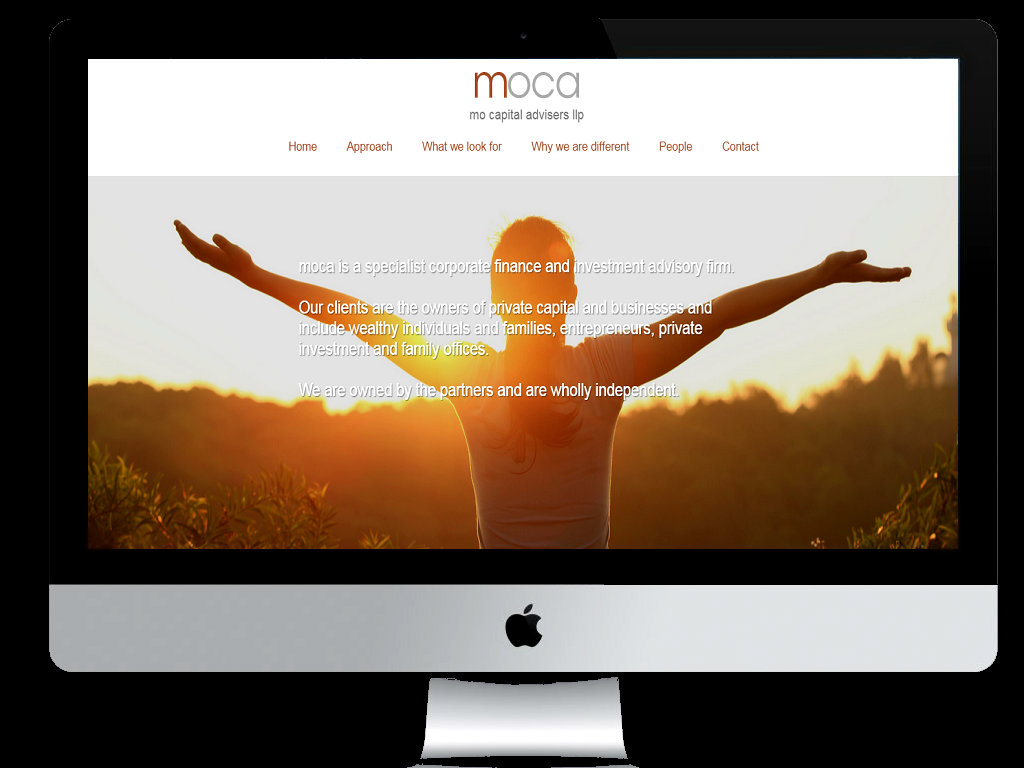
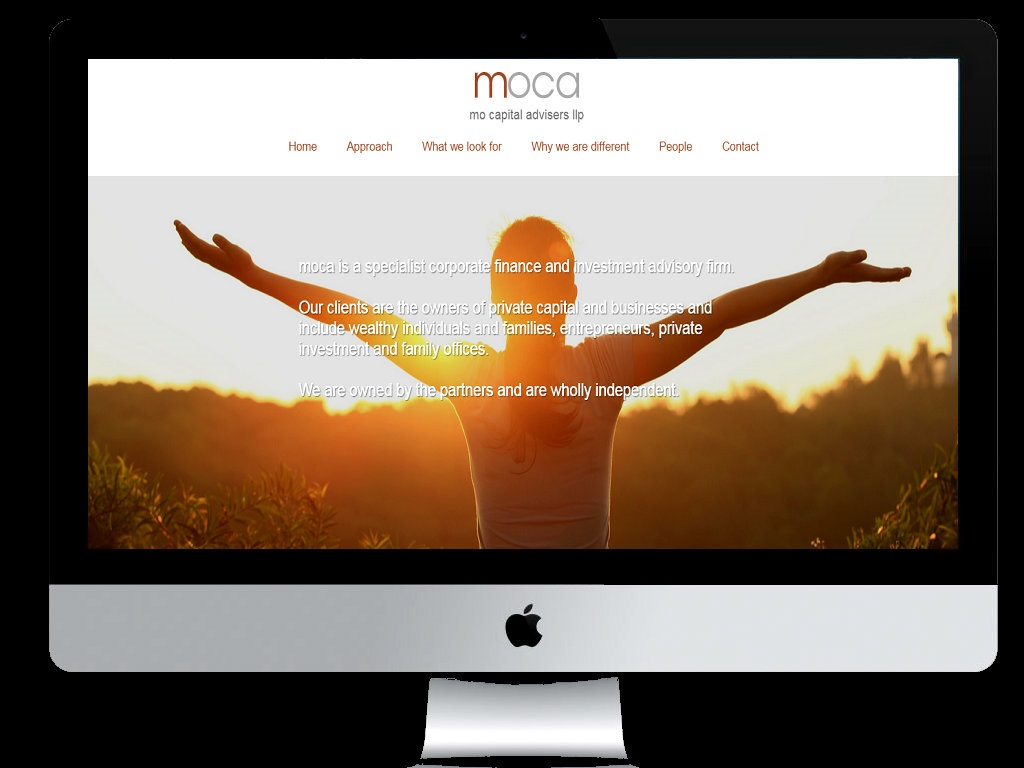
changed image to png

Changed region(s): [[0.2812, 0.3438, 0.5625, 0.4688], [0.4375, 0.5, 0.5625, 0.5312], [0.5625, 0.1875, 0.5938, 0.2188]]

diff --git a/index.html b/index.html
@@ -102,7 +102,7 @@ I am always gaining new skills and learning new tricks..</p>
   <div id="moca">
 
      <div data-sr='enter left move 80px over 3s' id="mocadesktop-image">
-                <img id="mocaimg" src= "../css/images/macdesktop-moca.jpg">
+                <img id="mocaimg" src= "../css/images/macdesktop-moca.png">
       </div>
 
       <div data-sr='enter right move 80px over 3s' id="moca-paragraph">
